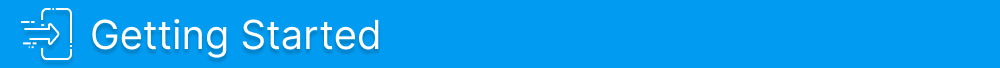
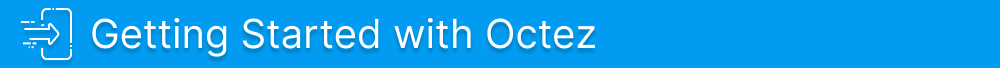
doc: recenter home page on Octez & protocol

Changed region(s): [[0.093, 0.2647, 0.62, 0.7941], [0.186, 0.7647, 0.248, 0.8529], [0.155, 0.2647, 0.186, 0.3529]]

diff --git a/docs/index.rst b/docs/index.rst
@@ -6,20 +6,21 @@
 .. TODO https://gitlab.com/tezos/tezos/-/issues/2170:
    search shifted protocol name/number & adapt
 
-Welcome to the Tezos Technical Documentation!
-=============================================
+Welcome to the Octez and Protocol Documentation!
+================================================
 
 To start browsing, either follow one of the guided paths below, or directly pick any topics in the documentation menu.
 
 .. raw:: html
 
     <details>
-    <summary><img alt="Discover Tezos" class="normal" src="discover_tezos_1.png" style="width:min(95%,1000px); cursor: pointer;" />
+    <summary><img alt="Discover Octez & the Tezos protocol" class="normal" src="discover_tezos_1.png" style="width:min(95%,1000px); cursor: pointer;" />
     </summary><div style="max-width:min(90%,1000px); margin-top:1em; margin-left:2em">
 
-**Never heard of Tezos?** Let's get acquainted!
+**Never heard of Octez?** Let's get acquainted!
 
-Tezos is a distributed consensus platform (a blockchain) with meta-consensus
+Octez & the Tezos protocol are an implementation of the `Tezos blockchain <https://tezos.com>`__ , a
+distributed consensus platform with meta-consensus
 capability.
 
 This means that, unlike other blockchains like Bitcoin or Ethereum, Tezos comes to consensus not only about the state of its ledger, but also about how the protocol and the nodes should adapt and upgrade.
@@ -27,7 +28,9 @@ This means that, unlike other blockchains like Bitcoin or Ethereum, Tezos comes 
 This is a fundamental design choice, allowing Tezos to be seamlessly upgradable and continuosly evolving.
 Due to this feature, Tezos is built to last, and always stay at the leading edge of blockchain technology.
 
-To learn more about Tezos, its implementation, and its ecosystem, see :doc:`introduction/tezos`.
+To learn more about Tezos, the `Tezos documentation <https://tezos.com>`__.
+
+To learn more about how Octez & the protocol fit into Tezos and its ecosystem, see :doc:`introduction/tezos`.
 
 .. raw:: html
 
@@ -37,7 +40,7 @@ To learn more about Tezos, its implementation, and its ecosystem, see :doc:`intr
     <summary><img alt="Getting started" class="normal" src="getting_started_2.png" style="width:min(95%,1000px); cursor: pointer;" />
     </summary><div style="max-width:min(90%,1000px); margin-top:1em; margin-left:2em">
 
-**Newcomer to Tezos?** Come and participate!
+**Newcomer to Octez?** Start participating to Tezos using Octez!
 
 Start participating to Tezos by following the ``Introduction`` section in the documentation menu.
 
@@ -62,10 +65,10 @@ and more.
 If you already installed Octez and can participate in the Tezos blockchain, the most useful resources are grouped in the ``User`` section in the documentation menu.
 These pages:
 
-- present the key concepts and mechanisms for setting up Octez, including :doc:`user/setup-client`, :doc:`user/setup-node`, and so on;
+- present the key concepts and mechanisms for setting up Octez, including :doc:`user/setup-client`, :doc:`user/setup-node`, for different production or testing configurations;
 - empowers you to take advantage of Octez' basic and more advanced features, such as :doc:`user/key-management`, :doc:`user/multisig`, :doc:`user/logging`, and much more.
 
-If you intend to participate to Tezos not just as a mere user, but also as a baker, you could also check more specialized resources such as the `NL Knowledge Center <https://docs.nomadic-labs.com/nomadic-labs-knowledge-center/>`__ or `Open Tezos <https://opentezos.com>`__.
+If you intend to participate to Tezos not just as a mere user, but rather as a baker, you should aslo check more specialized documentation such as the ``Baking`` section on `Open Tezos <https://opentezos.com/>`__.
 
 .. raw:: html
 
@@ -77,11 +80,11 @@ If you intend to participate to Tezos not just as a mere user, but also as a bak
 
 **Want to know how it works?** It's no secret, let us explain!
 
-If you want to know more about the Tezos *technology*, there are several sections in the documentation presenting the main design principles of Tezos, and some high-level implementation principles of Octez:
+If you want to know more about the *technology* underlying Octez and the Tezos protocol, the following sections in the documentation present their rationale, main design principles, and some high-level implementation principles:
 
-- Section ``Shell`` introduces the common :ref:`architectural principles of any Tezos implementation <the_big_picture>`, mainly consisting of a "shell" and a "protocol". It also presents in particular the :ref:`architectural principles of the Octez implementation <packages>`. A group of pages in this section detail some major subsystems of :doc:`shell/shell`.
+- Section ``Shell`` explains how the :ref:`architecture of the Octez implementation <packages>` instantiates the common :ref:`architectural principles of any Tezos implementation <the_big_picture>`, consisting in a "shell" and a "protocol" . A group of pages in this section detail some major subsystems of :doc:`shell/shell`.
 
-- Sections named ``<name> Protocol`` explain the design principles and the salient features of several Tezos protocols, current or upcoming, such as: the :doc:`active protocol <active/protocol>`, a :doc:`protocol proposal under development <alpha/protocol>`, and possibly some protocol(s) that are currently candidate(s) for future adoption.
+- Section ``Protocol`` explains the design principles and the salient features of the Tezos protocol. In fact, these pages are versioned for several Tezos protocols, current or upcoming, such as: the :doc:`active protocol <active/protocol>`, a :doc:`protocol proposal under development <alpha/protocol>`, and possibly some protocol(s) that are currently candidate(s) for future adoption.
 
 
 .. raw:: html
@@ -89,20 +92,18 @@ If you want to know more about the Tezos *technology*, there are several section
     </div></details><br/>
 
     <details>
-    <summary><img alt="Building on Tezos" class="normal" src="building_on_tezos_5.png" style="width:min(95%,1000px); cursor: pointer;" />
+    <summary><img alt="Developer reference" class="normal" src="building_on_tezos_5.png" style="width:min(95%,1000px); cursor: pointer;" />
     </summary><div style="max-width:min(90%,1000px); margin-top:1em; margin-left:2em">
 
-**Are you an application developer?** Find how to program with Tezos!
+**Are you a Tezos developer?** Find here some useful reference pages!
 
-Tezos is an open platform. As any programmable blockchain, its value lies in the increasing base of smart contracts and distributed applications covering various domains, but also in the tools that make the ecosystem easier to use and more efficient, such as wallets, indexers, and many others.
+If you are a developer on the Tezos platform, you must know the `Tezos Developer Portal <https://tezos.com/developers/>`__ or `Open Tezos <https://opentezos.com>`__, giving accessible and pedagogical expositions on how to write smart contracts or Dapps.
 
-If you are looking for an accessible and pedagogical exposition on how to write smart contracts or Dapps, there are many great resources out there for developing on Tezos, such as the `Tezos Developer Portal <https://tezos.com/developers/>`__ and `Open Tezos <https://opentezos.com>`__.
+This website complements those resources with reference documentation, mostly in section ``Developer reference``, including:
 
-For Tezos developers, this website mostly provides reference and API documentation, but also some guidelines, including:
-
+- Principles of the RPC interface such as the :doc:`developer/rpc`
+- RPC references such as :doc:`shell/rpc`, :doc:`api/openapi`, or :doc:`api/errors`
 - A complete reference of :doc:`active/michelson`
-- Important API concepts such as the :doc:`developer/rpc`
-- API references such as :doc:`shell/rpc`, :doc:`api/openapi`, or :doc:`api/errors`
 - Guidelines for writing smart contracts in Michelson, such as :doc:`active/michelson_anti_patterns`.
 
 .. raw:: html
@@ -115,7 +116,7 @@ For Tezos developers, this website mostly provides reference and API documentati
 
 **Are you a platform developer?** Here are the nuts and bolts!
 
-The main focus of this technical documentation website is on resources for platform developers, that is, those contributing to the Tezos platform, including contributors to its Octez implementation (Octez developers) and contributors to the Tezos protocol (protocol developers).
+The main focus of this technical documentation website is on resources for Tezos platform developers, that is, contributing to Octez (Octez developers) and contributors to the Tezos protocol (protocol developers).
 
 Platform developers can find a rich set of explanations, tutorials, and howtos, mainly in the ``Platform Developer`` section, including:
 

diff --git a/docs/images/README.md b/docs/images/README.md
@@ -6,7 +6,7 @@ This directory contains images to be used in the following situations:
 
 Images that are used only within (the pages in) one directory should rather be placed in that directory.
 
-## Images for the homepage 
+## Images for the homepage
 
 The doc homepage (`index.rst`) contains a series of banner images used as guided paths for various categories of users. These images respect a common pattern, compatible with the NL graphic chart, and varying (nuances of) colours in some particular order. They should only be updated together, to keep them uniform and coherent.
 
@@ -14,7 +14,7 @@ The doc homepage (`index.rst`) contains a series of banner images used as guided
 
 ### Updating the banner images
 
-The banner images are made with Figma and can be accessed [here](https://www.figma.com/community/file/1197990458511115255).
+The banner images are made with Figma and can be accessed [here](https://www.figma.com/file/o948kXk3DkGgsObfRNyN5L).
 The file can be copied and then edited. It's one page with 6 frames, where each frame can be downloaded separately as a .png file,
 corresponding to the 6 menu items. The icons set used in the banners can be found
 [here](https://www.figma.com/file/j14pYxTfenMHbxK7UNdJky/Koloicons-%7C-3000%2B-Icons-%7C-Detailed-Pack-%28Community%29?node-id=4%3A4934).
